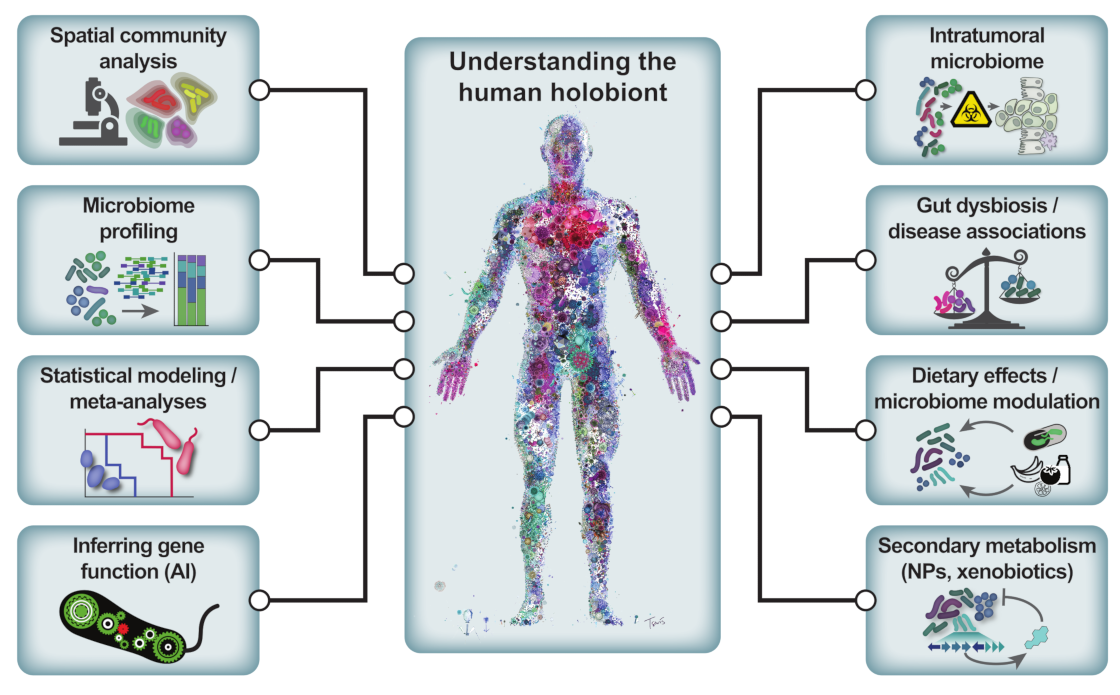
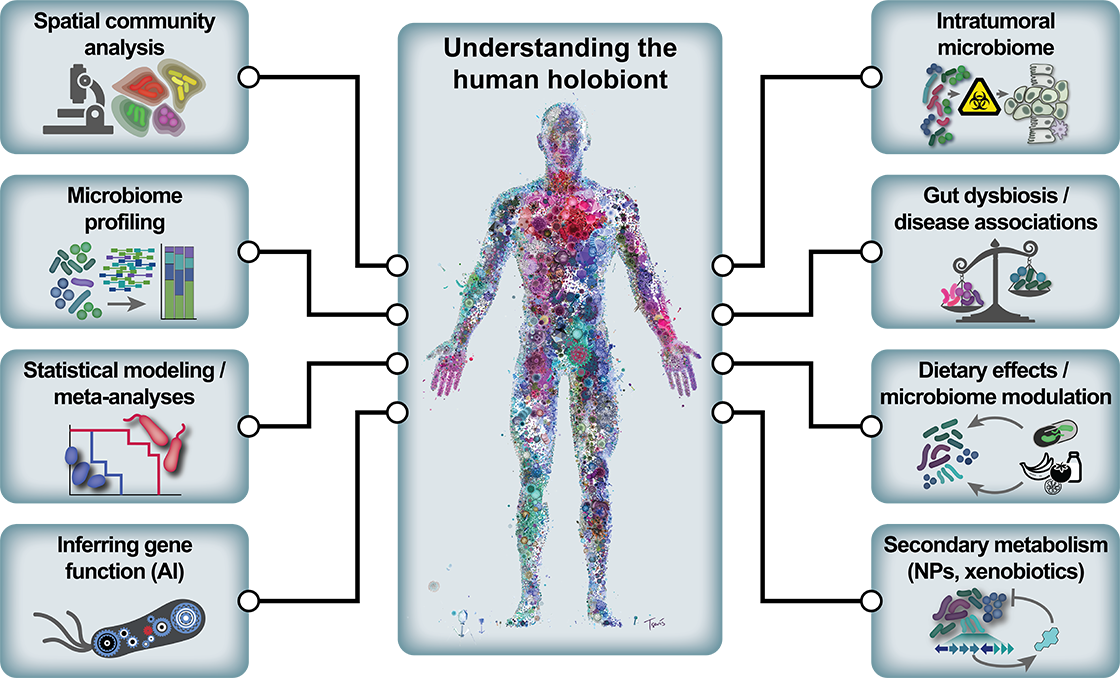
Update images with new version from Georg

diff --git a/tools/_posts/2021-05-04-gecco.md b/tools/_posts/2021-05-04-gecco.md
@@ -26,7 +26,7 @@ GECCO is a precise and scalable method for the de novo identification  of biosyn
 Biosynthetic gene clusters (BGCs) are enticing targets for (meta)genomic mining efforts, as they may encode novel, specialised metabolites with potential uses in medicine and biotechnology. GECCO’s precision in identifying BGCs, including ones with novel architectures, has been extensively evaluated against large manually curated sets of BGCs. When applied to large genome collections, GECCO identified nearly twice as many BGCs compared to a rule-based approach, while achieving higher accuracy, in particular for the detection of BGC boundaries, than other machine learning and AI-based approaches.  
 The GECCO software is implemented in [Python](https://www.python.org/), supports all versions from [Python 3.7](https://endoflife.date/python) and is provided under the [GNU General Public License v3.0 or later](https://choosealicense.com/licenses/gpl-3.0/).  
 
-![GECCO flowchart](/assets/images/tools/2021-05-04-gecco-flow.jpg)
+![GECCO flowchart](/assets/images/tools/2021-05-04-gecco-flow.png)
 
 Graphical depiction of the biosynthetic gene cluster (BGC) identification and classification approach implemented in GECCO. Briefly, GECCO identifies open reading frames (ORFs) in an assembled prokaryotic (meta)genome (Step 1). Protein domains are annotated in the resulting ORFs using profile hidden Markov models (pHMMs; Step 2). The resulting ordered domain vectors serve as features for a conditional random field (CRF) that is trained to predict whether a stretch of contiguous genes belong to a BGC or not (Step 3). Predicted BGCs are classified into one of six major biosynthetic classes as defined in the Minimum Information about a Biosynthetic Gene cluster (MIBiG) database using a Random Forest classifier (Step 4).
   
